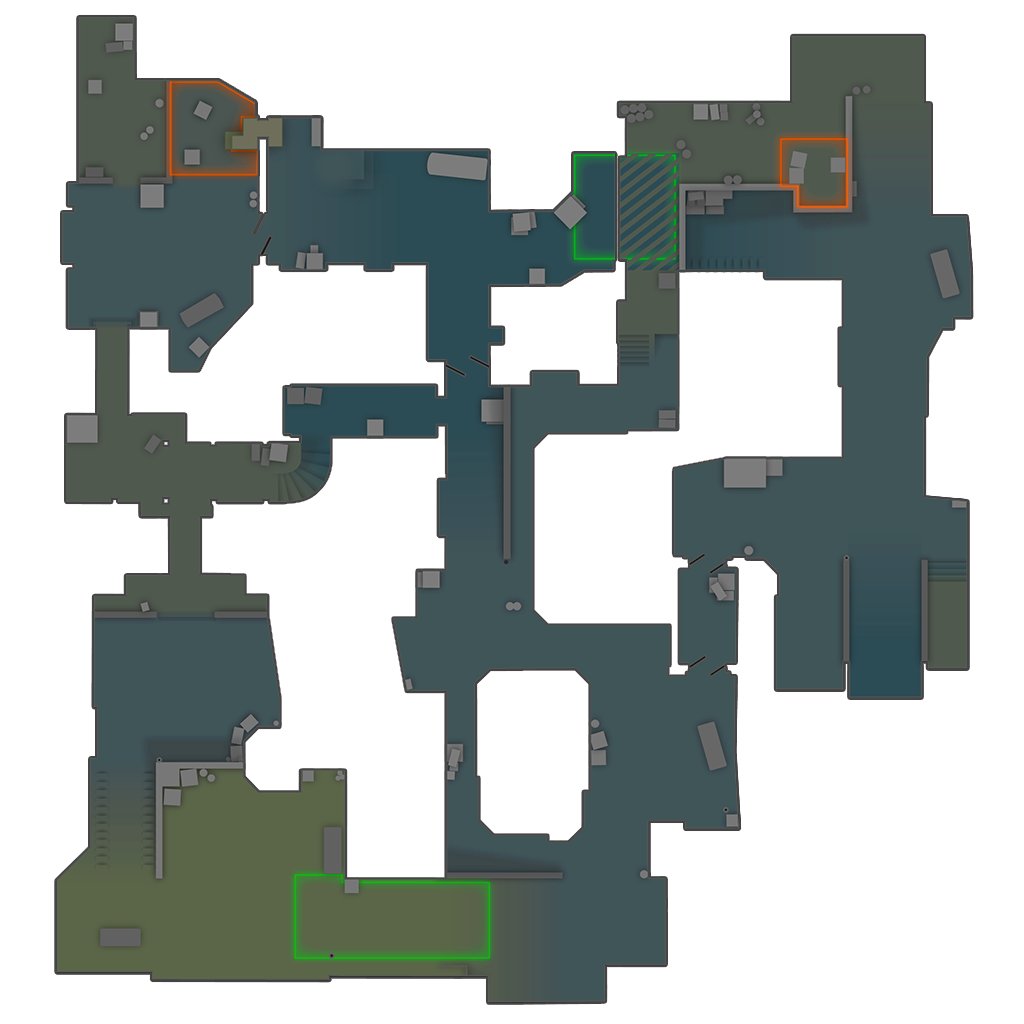
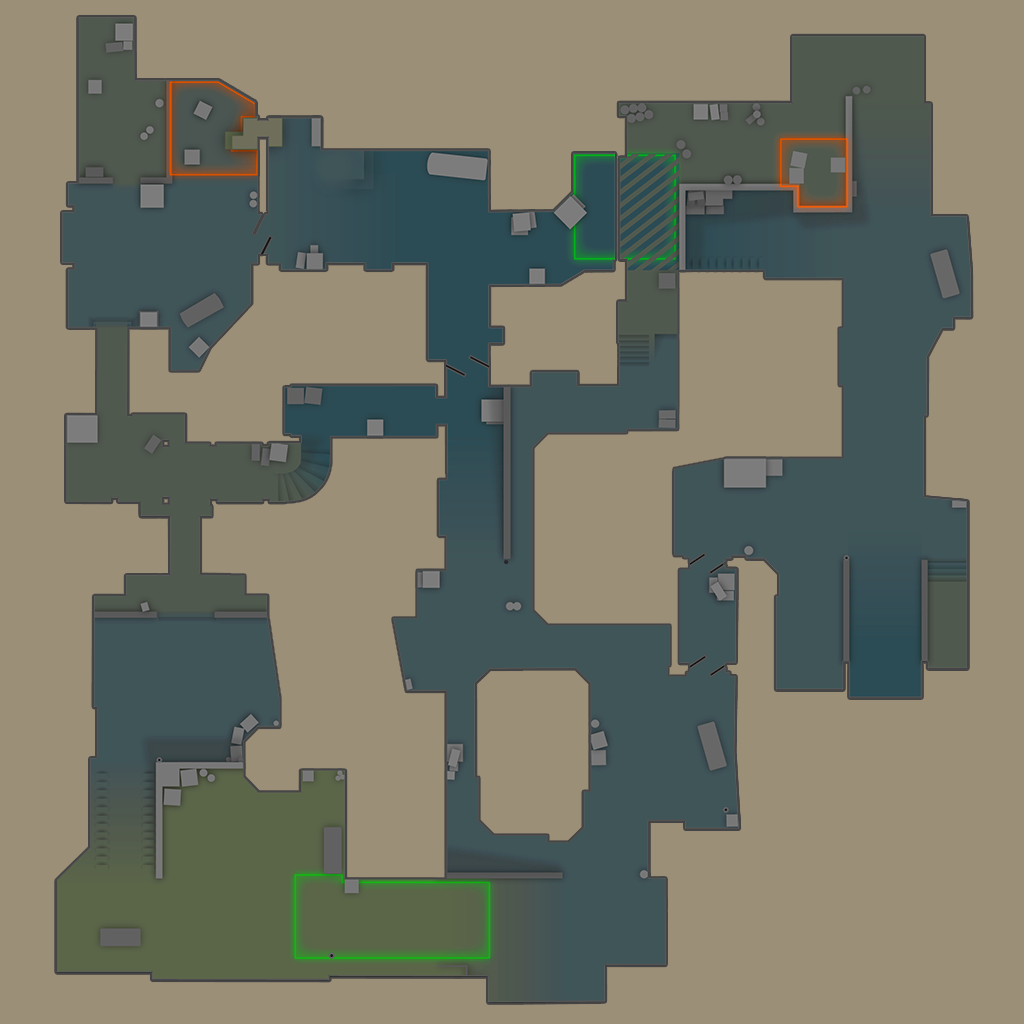
v143: as 'sombras pretas' eram areas TRANSPARENTES do radar oficial (70% do mirage!) renderizando preto - radares achatados sobre a cor base da arena, sem alpha; cache v143

diff --git a/sw.js b/sw.js
@@ -1,5 +1,5 @@
 // Callout — cache para abrir rápido e funcionar sem internet depois da primeira visita
-const V='callout-v142';
+const V='callout-v143';
 const CORE=['./','index.html','three.min.js','manifest.webmanifest','icon-192.png','icon-512.png'];
 self.addEventListener('install',e=>{e.waitUntil(caches.open(V).then(c=>c.addAll(CORE)).then(()=>self.skipWaiting()));});
 self.addEventListener('activate',e=>{e.waitUntil(caches.keys().then(ks=>Promise.all(ks.filter(k=>k!==V).map(k=>caches.delete(k)))).then(()=>self.clients.claim()));});
